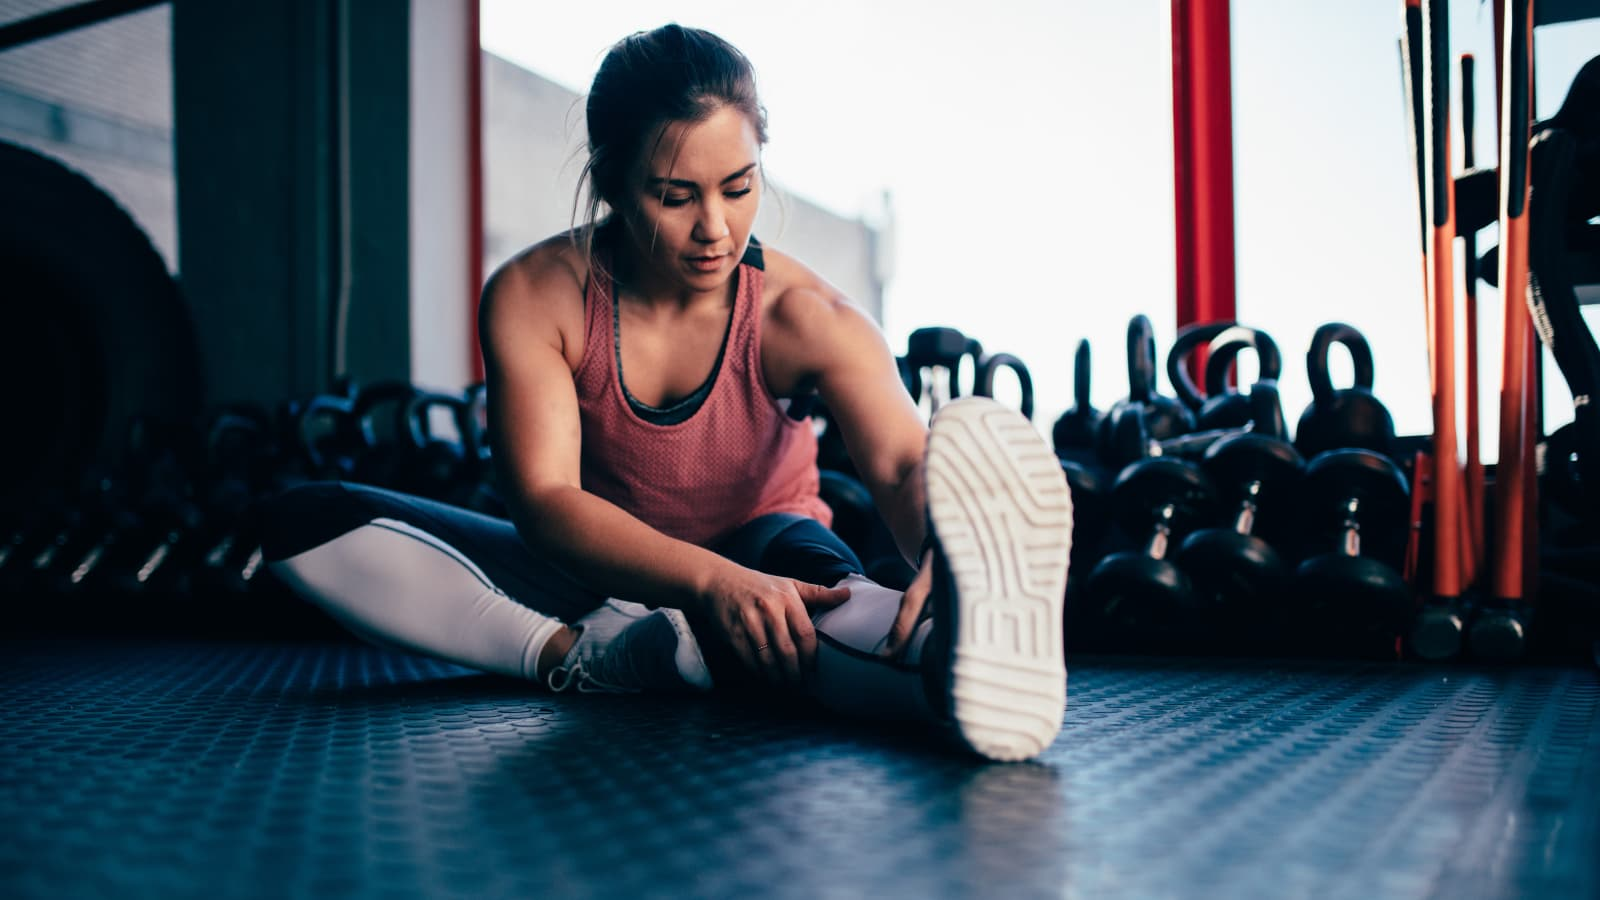
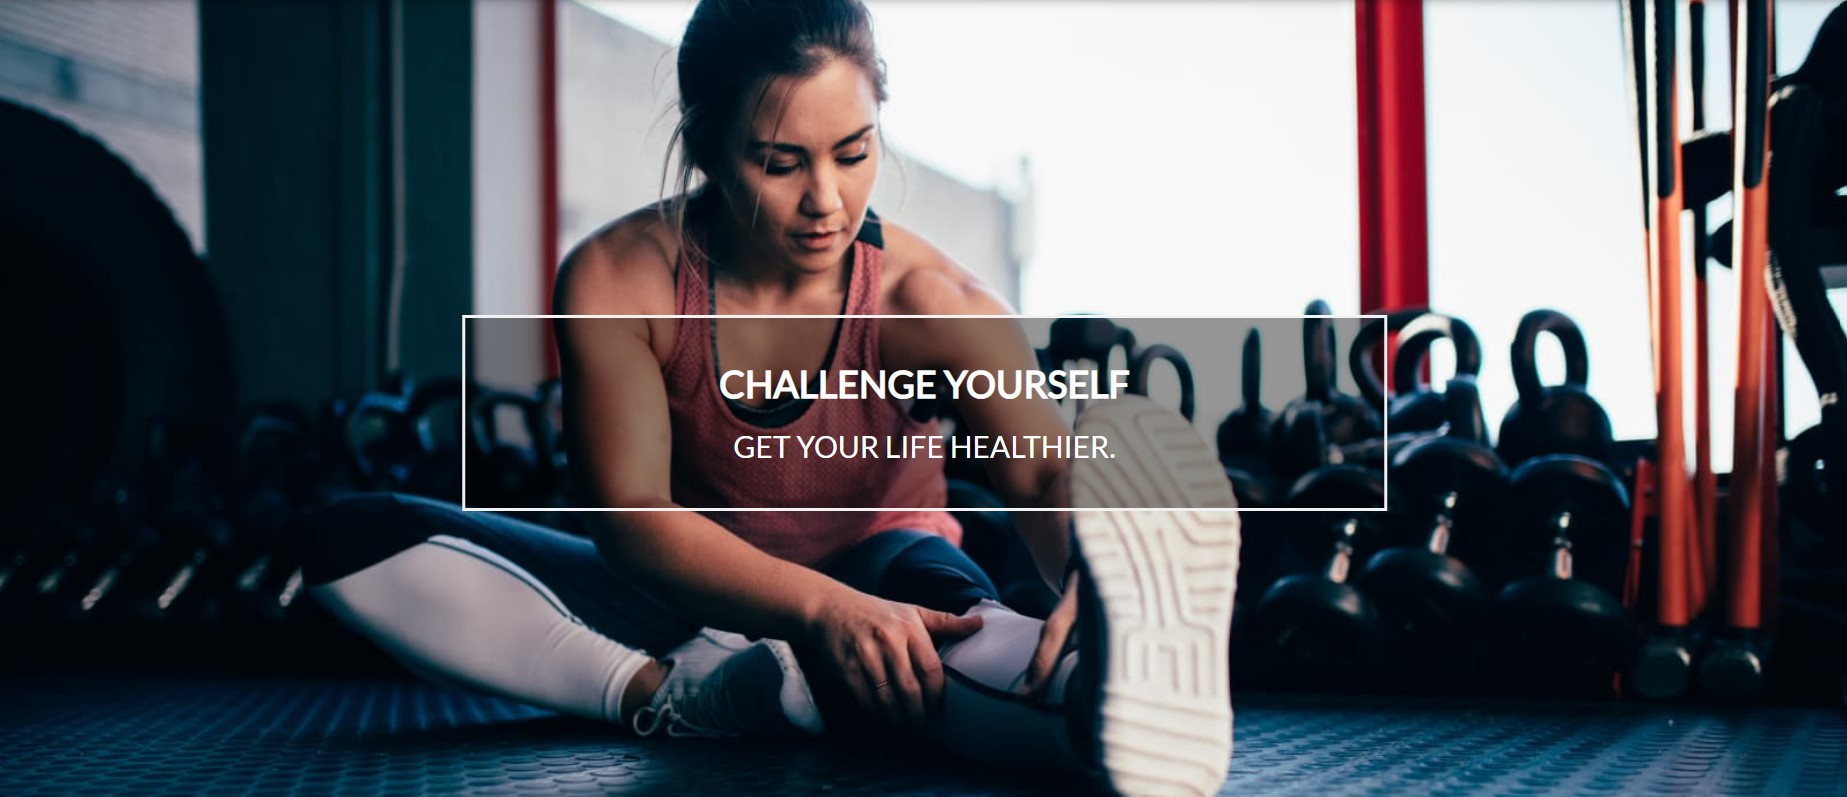
Changed background

diff --git a/Project/www/index.php b/Project/www/index.php
@@ -86,11 +86,7 @@
 
     <!-- Header -->
     <header class="w3-container w3-center" style="padding:128px 16px; background-image: url(../src/imgs/background.jpg); background-size: cover;  background-repeat: no-repeat; padding-bottom: 38%;">
-
-        <div class="bg-text">
-            <h2><strong> CHALLENGE YOURSELF </strong></h2>
-            <h3> GET YOUR LIFE HEALTHIER. </h3>
-        </div> 
+      
     </header>
 
     <!-- First Grid -->
